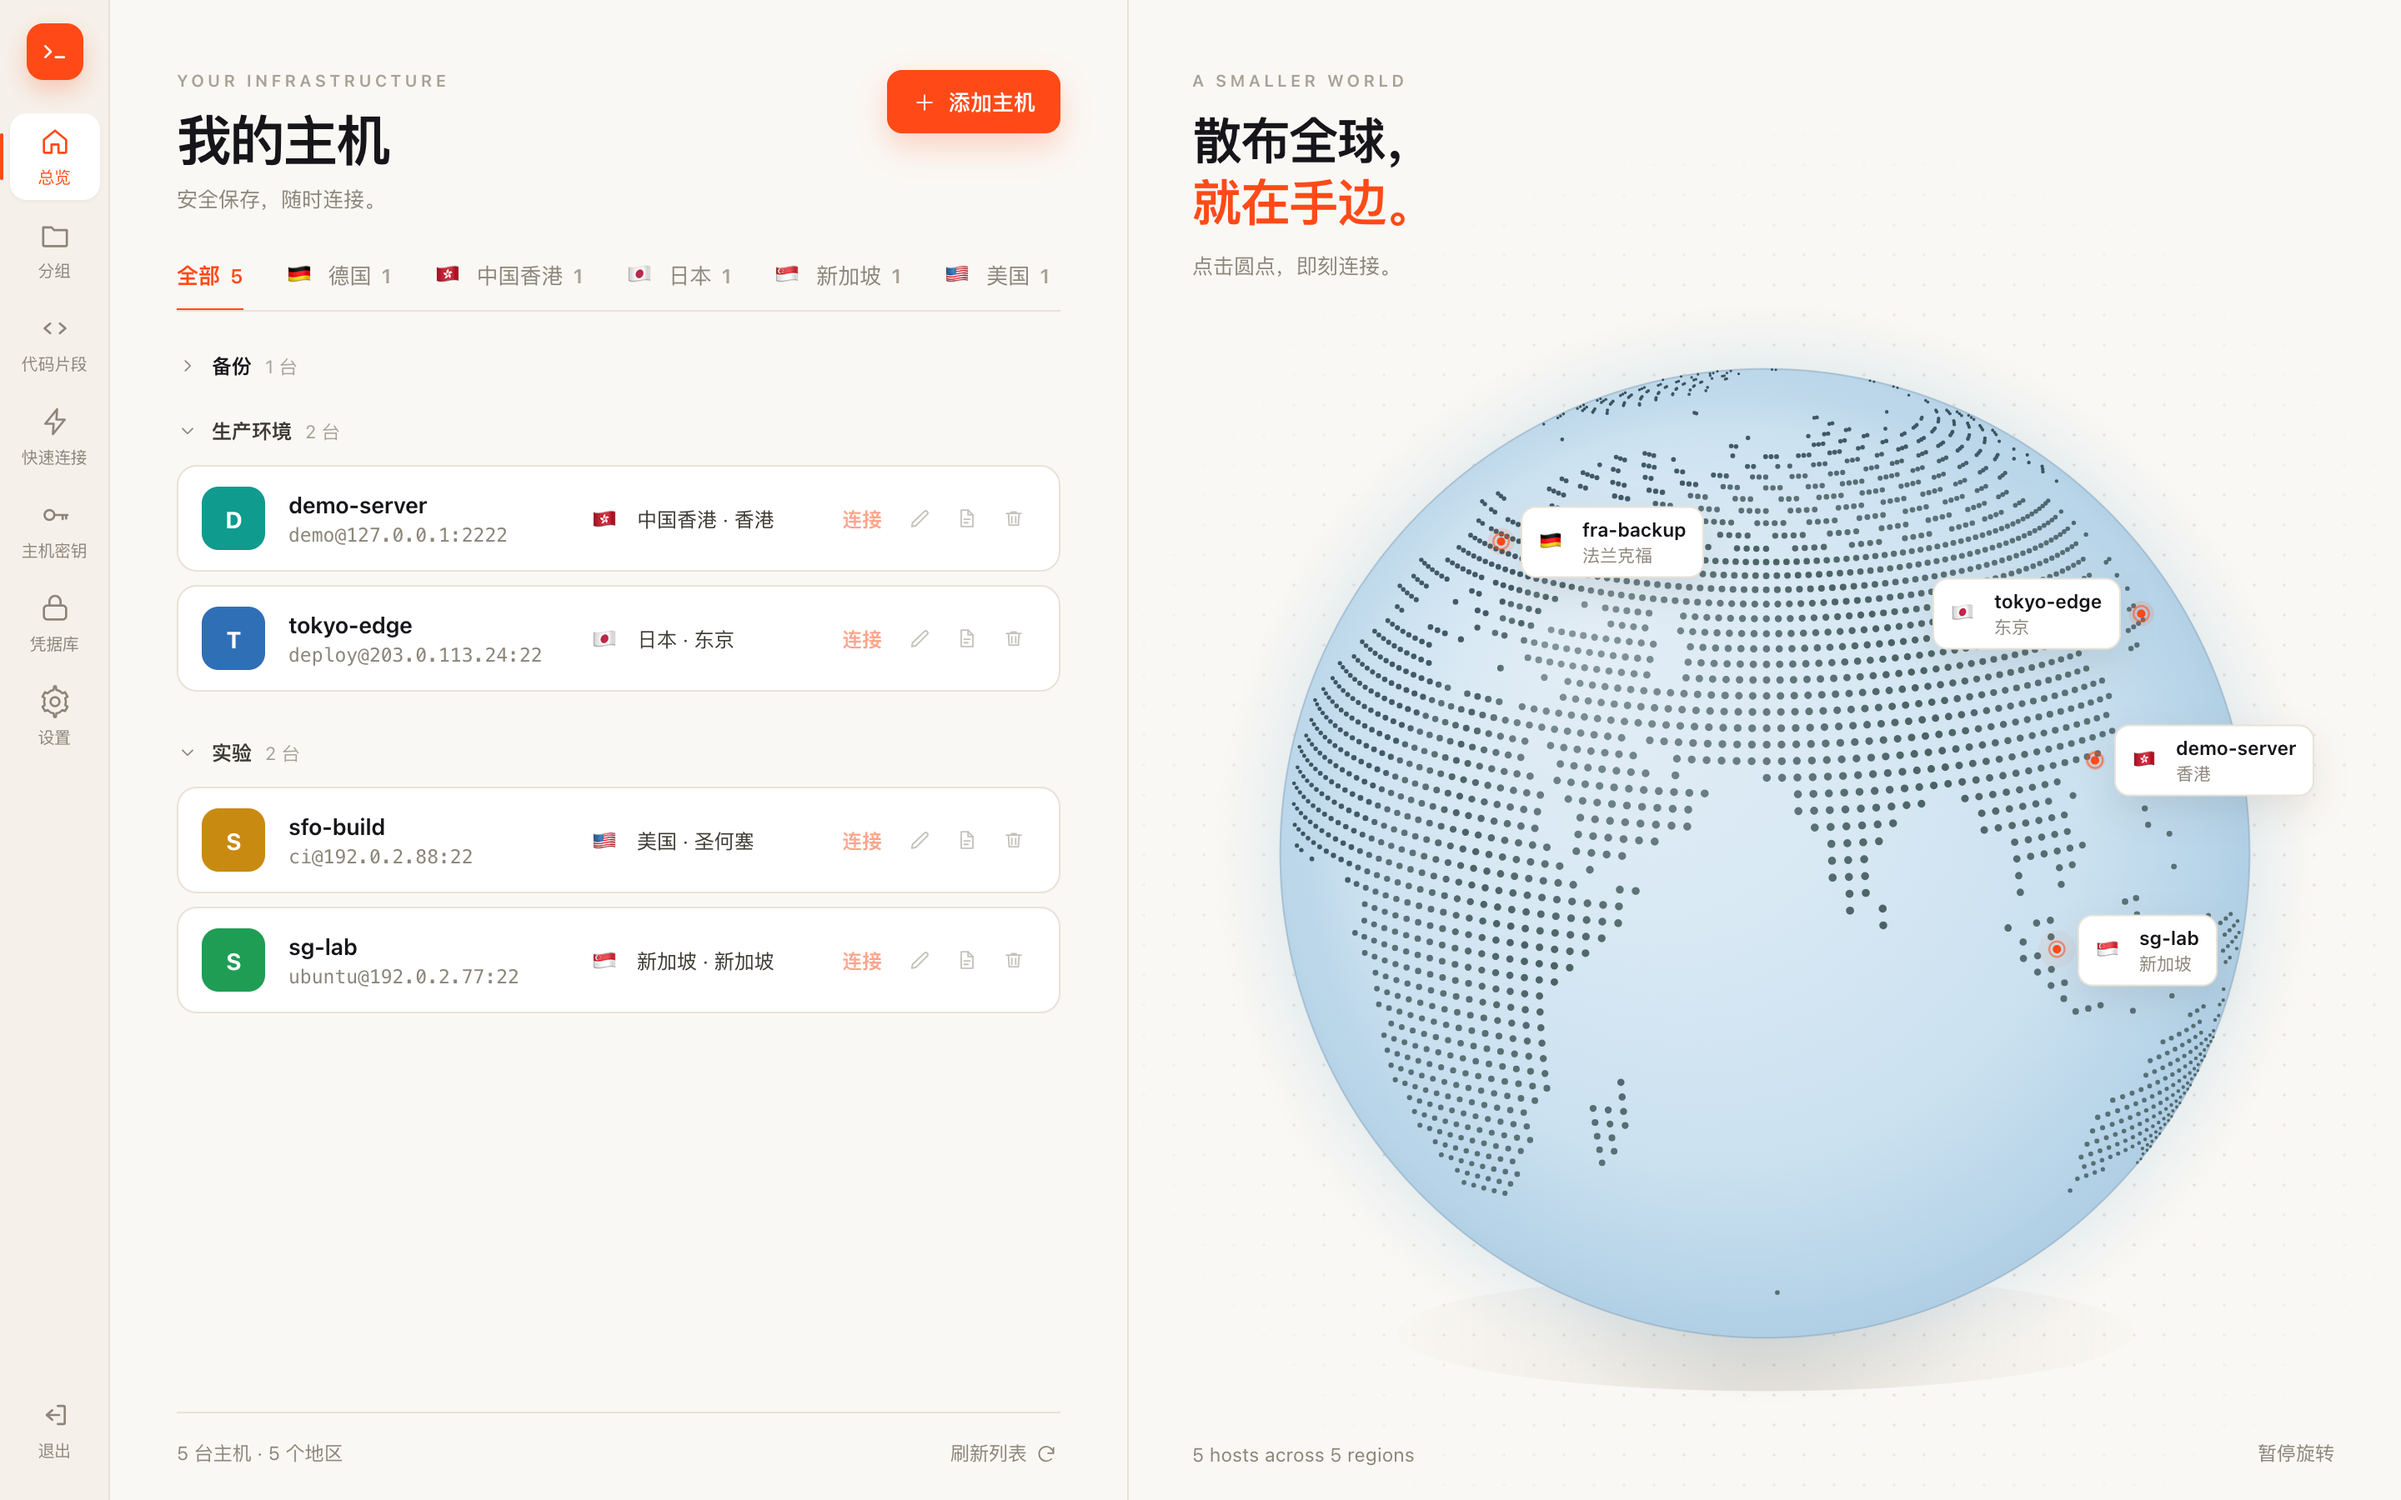
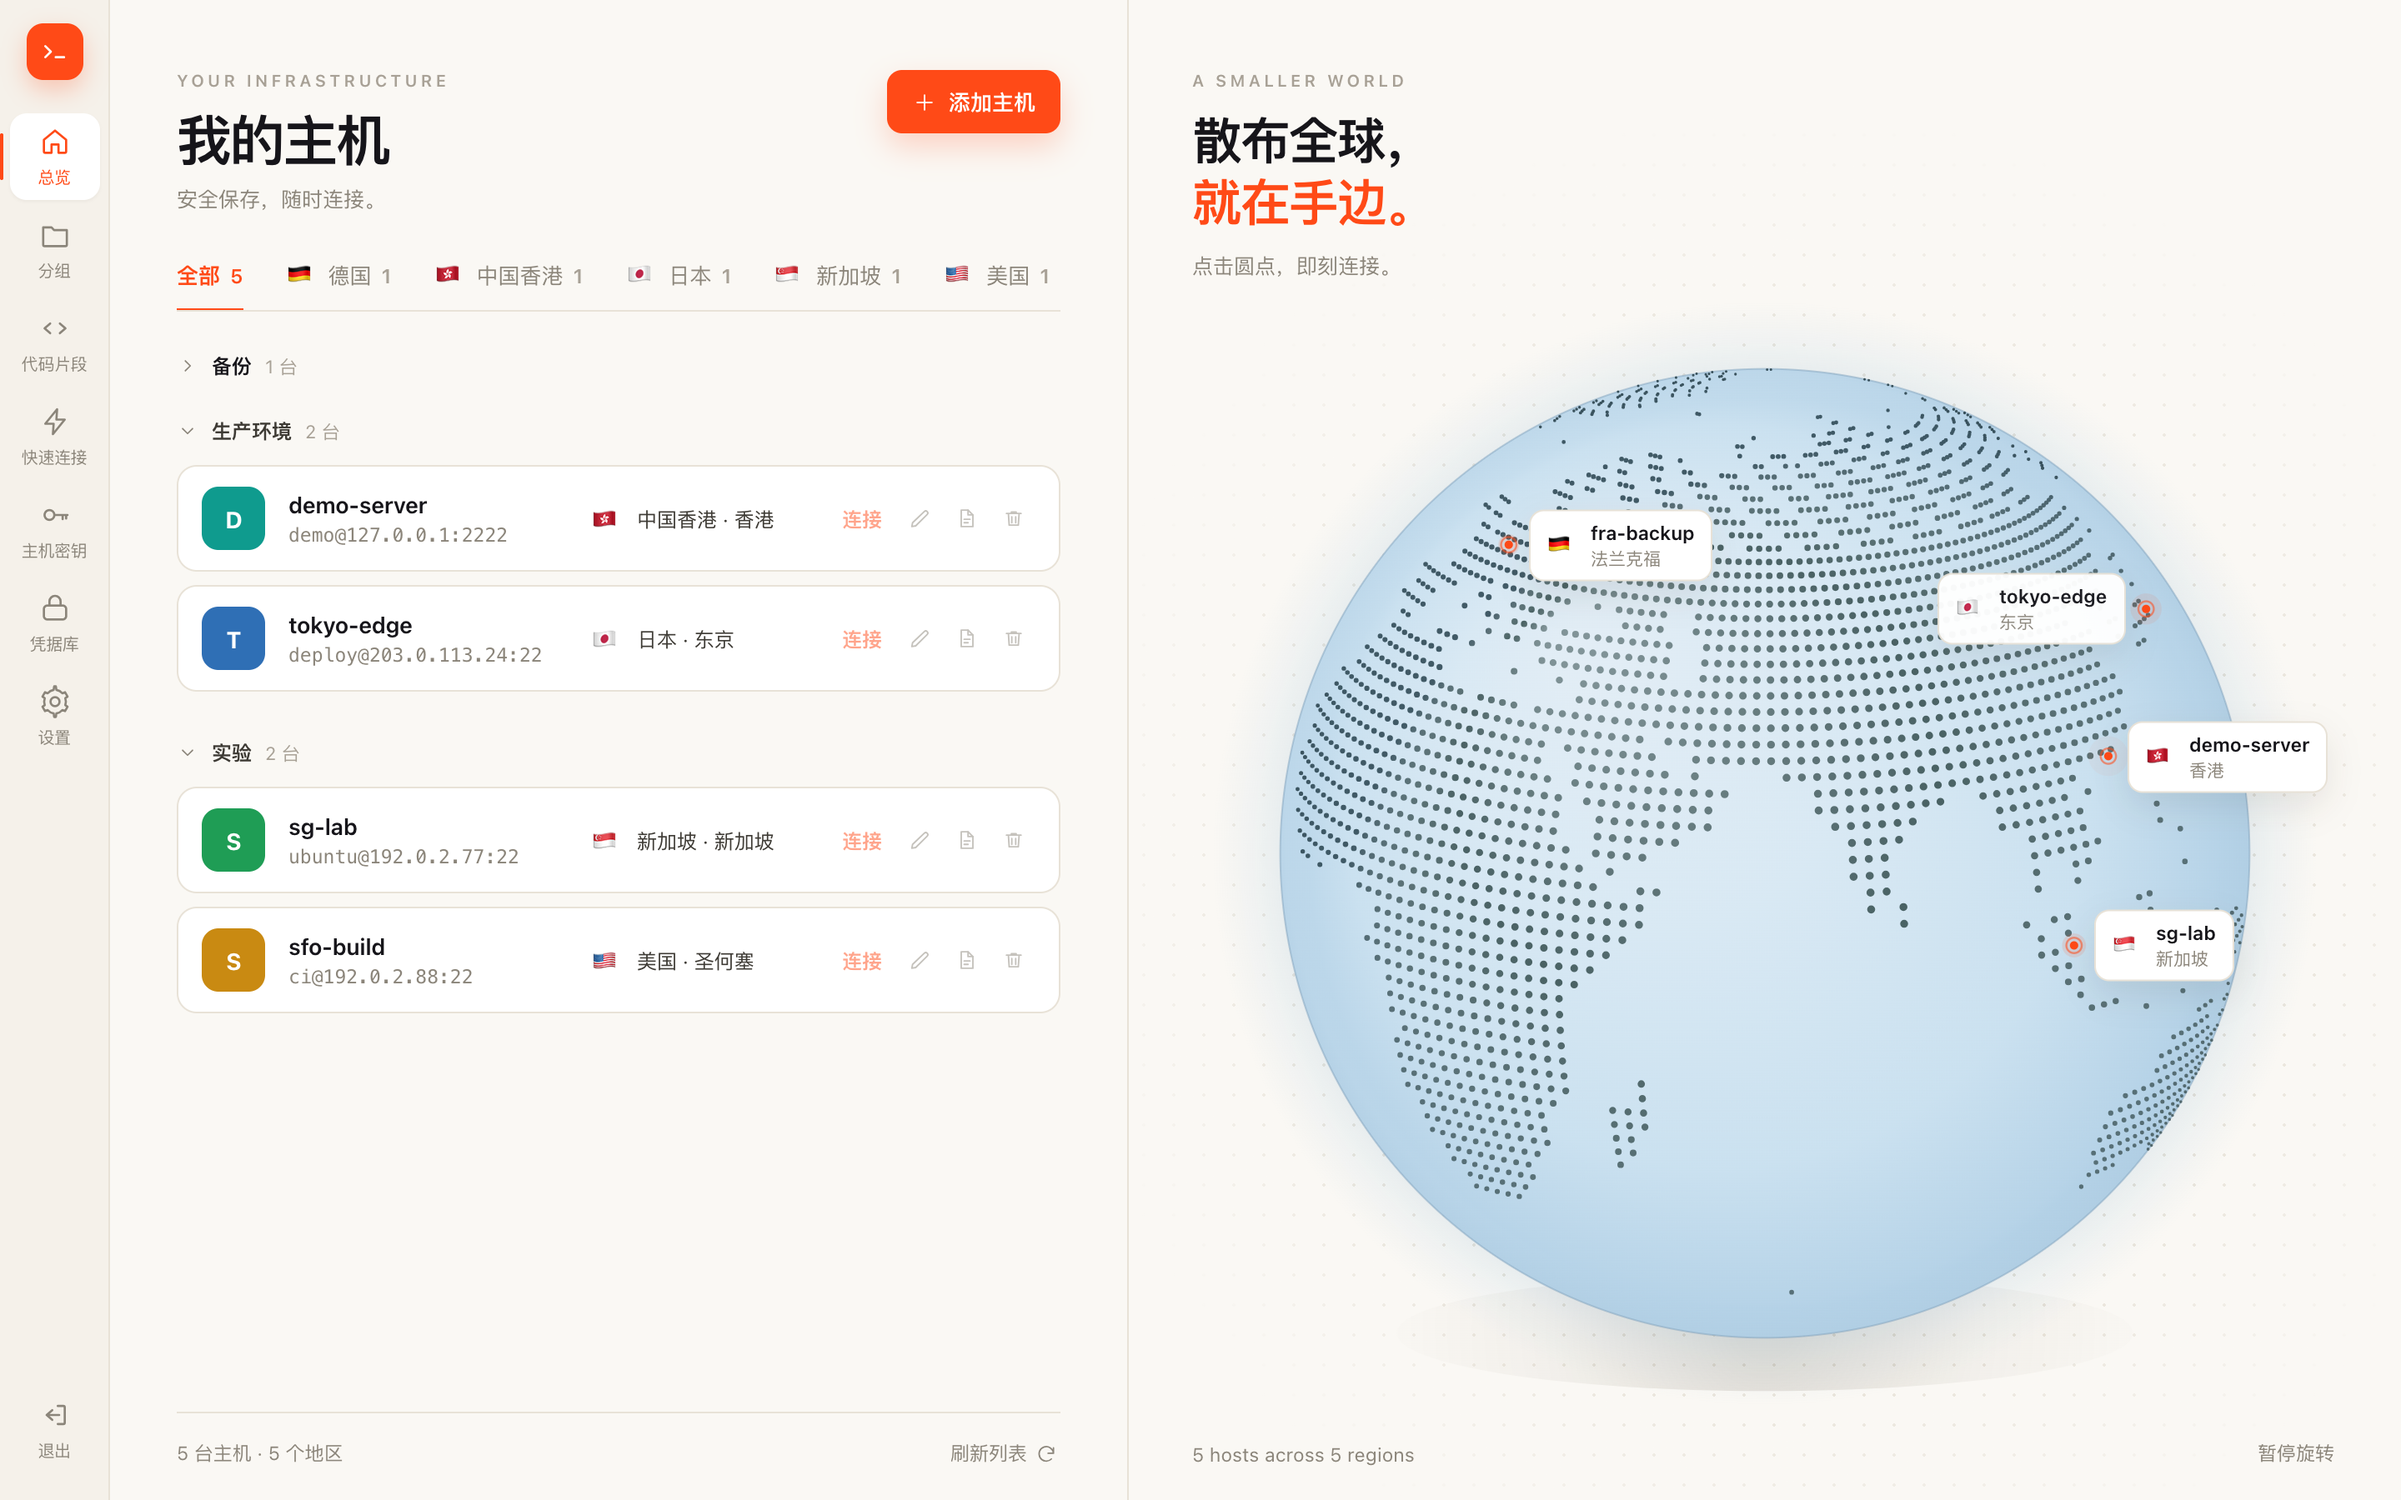
Add files via upload

diff --git a/src/worker.js b/src/worker.js
@@ -1,5 +1,6 @@
 // WebSSH — Cloudflare Worker entry (API + WebSocket bridge + static shell)
 import { Terminal } from './session.js';
+import { normalizeHost } from './hostaddr.js';
 import { connect } from 'cloudflare:sockets';
 import * as auth from './auth.js';
 import { getJSON, putJSON, del, list, getText } from './store.js';
@@ -57,7 +58,6 @@ class HttpError extends Error {
     }
 }
 
-const HOST_RE = /^[a-zA-Z0-9._\-:[\]]+$/;
 
 function cleanHostInput(body) {
     const name = String(body.name || '').trim();
@@ -66,13 +66,14 @@ function cleanHostInput(body) {
     const port = parseInt(body.port, 10) || 22;
     const authType = body.authType === 'key' ? 'key' : 'password';
     if (!host) throw new HttpError(400, '主机地址不能为空');
-    if (!HOST_RE.test(host)) throw new HttpError(400, '主机地址只能包含字母、数字、点、下划线、冒号和短横线');
+    const addr = normalizeHost(host);
+    if (!addr) throw new HttpError(400, '主机地址不合法（支持域名、IPv4、IPv6）');
     if (!username) throw new HttpError(400, '用户名不能为空');
     if (port < 1 || port > 65535) throw new HttpError(400, '端口范围应为 1-65535');
     if (name.length > 60) throw new HttpError(400, '名称过长');
     return {
-        name: name || `${username}@${host}`,
-        host,
+        name: name || `${username}@${addr}`,
+        host: addr,
         port,
         username,
         authType,
@@ -87,7 +88,7 @@ function cleanHostInput(body) {
 
 function publicHost(h) {
     const { secretEnc, keyEnc, passphraseEnc, ...rest } = h;
-    return { ...rest, hasSecret: Boolean(secretEnc || keyEnc || h.keyId || h.credId) };
+    return { ...rest, host: normalizeHost(h.host) || h.host, hasSecret: Boolean(secretEnc || keyEnc || h.keyId || h.credId) };
 }
 
 /* ---------------------------------------------------------------- groups */
@@ -431,7 +432,7 @@ async function handleApi(request, env, url) {
                 const rec = await getJSON(env, o.key);
                 if (rec) hosts.push(publicHost(rec));
             }
-            hosts.sort((a, b) => (a.name || '').localeCompare(b.name || ''));
+            hosts.sort((a, b) => (a.createdAt || 0) - (b.createdAt || 0) || (a.name || '').localeCompare(b.name || ''));
             return json({ hosts });
         }
         if (method === 'POST') {
@@ -592,11 +593,12 @@ async function handleWebSocket(request, env) {
         if (!/^[a-zA-Z0-9]+$/.test(hostId)) return json({ error: 'bad_id', message: '无效的主机 ID' }, 400);
         const rec = await getJSON(env, 'hosts/' + hostId);
         if (!rec) return json({ error: 'not_found', message: '主机不存在，可能已被删除' }, 404);
-        target = { host: rec.host, port: rec.port || 22 };
+        target = { host: normalizeHost(rec.host), port: rec.port || 22 };
     } else {
-        if (!qHost || !HOST_RE.test(qHost)) return json({ error: 'bad_host', message: '主机地址不合法' }, 400);
+        const addr = normalizeHost(qHost);
+        if (!addr) return json({ error: 'bad_host', message: '主机地址不合法' }, 400);
         if (qPort < 1 || qPort > 65535) return json({ error: 'bad_port', message: '端口不合法' }, 400);
-        target = { host: qHost, port: qPort };
+        target = { host: addr, port: qPort };
     }
 
     let socket;

diff --git a/public/js/app.js b/public/js/app.js
@@ -529,7 +529,7 @@ function openHostEditor(host) {
     });
 
     const userIn = el('input', { type: 'text', value: h.username || 'root', placeholder: 'root', autocomplete: 'off' });
-    const hostIn = el('input', { type: 'text', value: h.host || '', placeholder: '192.0.2.10 或 example.com', spellcheck: 'false' });
+    const hostIn = el('input', { type: 'text', name: 'host', value: h.host || '', placeholder: '192.0.2.10、example.com 或 2001:db8::1', spellcheck: 'false' });
     const portIn = el('input', { type: 'number', value: h.port || 22, min: '1', max: '65535' });
 
     const pwIn = el('input', { type: 'password', autocomplete: 'new-password', placeholder: h.hasSecret ? '已保存，留空则不修改' : '登录密码' });
@@ -1424,7 +1424,7 @@ function openSettings() {
 function openQuickConnect() {
     setNav('quick');
     const userIn = el('input', { type: 'text', value: 'root', autocomplete: 'off' });
-    const hostIn = el('input', { type: 'text', placeholder: 'example.com 或 192.0.2.10', spellcheck: 'false' });
+    const hostIn = el('input', { type: 'text', name: 'host', placeholder: 'example.com、192.0.2.10 或 2001:db8::1', spellcheck: 'false' });
     const portIn = el('input', { type: 'number', value: '22', min: '1', max: '65535' });
     const pwIn = el('input', { type: 'password', autocomplete: 'off', placeholder: '登录密码' });
     const keyIn = el('textarea', { placeholder: '-----BEGIN OPENSSH PRIVATE KEY-----', spellcheck: 'false' });

diff --git a/src/session.js b/src/session.js
@@ -4,6 +4,7 @@ import { SSHClient } from './ssh/client.js';
 import { SFTPClient, OPEN, b64encode, b64decode, isDirMode, isLinkMode, modeString } from './ssh/sftp.js';
 import { getJSON, putJSON, putText } from './store.js';
 import { decryptSecret, randomHex } from './auth.js';
+import { normalizeHost } from './hostaddr.js';
 
 const MAX_FILE = 64 * 1024 * 1024;
 const READ_CHUNK = 128 * 1024;
@@ -11,7 +12,7 @@ const WRITE_CHUNK = 64 * 1024;
 const EDIT_MAX = 512 * 1024;
 
 export function knownKey(host, port) {
-    return 'known/' + String(host).toLowerCase().replace(/[^a-z0-9.\-:]/g, '_') + '_' + port;
+    return 'known/' + String(host).toLowerCase().replace(/[^a-z0-9.\-:\[\]]/g, '_') + '_' + port;
 }
 
 const enc = new TextEncoder();
@@ -208,9 +209,9 @@ export class Terminal {
             }
         }
 
-        if (!host) throw new Error('缺少主机地址');
+        host = normalizeHost(host);
+        if (!host) throw new Error('主机地址不合法（支持域名、IPv4、IPv6）');
         if (!username) throw new Error('缺少用户名');
-        if (!/^[a-zA-Z0-9._\-:\[\]]+$/.test(host)) throw new Error('主机地址包含非法字符');
         if (port < 1 || port > 65535) throw new Error('端口不合法');
 
         this.meta = { host, port, user: username };

diff --git a/src/hostaddr.js b/src/hostaddr.js
@@ -1,0 +1,23 @@
+// Cloudflare's connect() requires IPv6 literals in brackets; the UI and the
+// stored records keep that form too so displays read as user@[addr]:port.
+
+function isIPv6(s) {
+    if (!s.includes(':') || !/^[0-9a-fA-F:.]+$/.test(s)) return false;
+    try {
+        new URL('http://[' + s + ']/');
+        return true;
+    } catch (_) {
+        return false;
+    }
+}
+
+export function normalizeHost(input) {
+    const raw = String(input == null ? '' : input).trim();
+    if (!raw) return '';
+    if (raw.startsWith('[')) {
+        const inner = raw.endsWith(']') ? raw.slice(1, -1) : '';
+        return inner && isIPv6(inner) ? '[' + inner.toLowerCase() + ']' : '';
+    }
+    if (raw.includes(':')) return isIPv6(raw) ? '[' + raw.toLowerCase() + ']' : '';
+    return /^[a-zA-Z0-9._-]+$/.test(raw) ? raw : '';
+}

diff --git a/README.md b/README.md
@@ -13,7 +13,7 @@
 - 首次打开让你设置管理员账号密码，之后用它登录
 - 浅色仪表盘：分组可收起 / 展开（状态记在本地）、独立分组面板（改名自动同步主机）、地区筛选、可拖拽的点阵地球（每台主机一个可点的城市标签）
 - 深色终端页：多标签、实时监控（CPU / 内存 / 网络 / RTT / 负载）、底部特殊按键条、代码片段一键发送、文件管理
-- 主机列表（密码 / 私钥两种认证），凭据 AES-GCM 加密后存在你自己的 R2 里
+- 主机列表（密码 / 私钥两种认证），支持 IPv4、IPv6 和域名，凭据 AES-GCM 加密后存在你自己的 R2 里
 - 凭据库：常用账号（用户名 + 密码）与私钥都能命名保存；账号和私钥显示使用数量，主机直接引用，不用重复填写
 - 文件管理（SFTP）：浏览、上传、下载、新建文件夹、重命名、删除、在线编辑文本文件
 - 主机密钥 TOFU 校验：首次连接弹指纹确认，之后指纹变化直接拒绝（防中间人）
@@ -73,7 +73,7 @@ node tests/e2e.mjs --headful   # 想看着它点的话
 
 ## 用起来
 
-- **添加主机**：名称、分组、主机、端口、用户名，选密码或私钥，再选地区和城市。地区和城市决定它在筛选标签和地球上的位置。
+- **添加主机**：名称、分组、主机、端口、用户名，选密码或私钥，再选地区和城市。地区和城市决定它在筛选标签和地球上的位置。主机地址支持域名、IPv4 和 IPv6，IPv6 直接填 `2001:db8::1` 或 `[2001:db8::1]` 都行，列表里统一显示成 `user@[addr]:port`；同一分组内按添加先后排列，新加的在下面。
 - **分组**：左侧「分组」面板里新建 / 重命名 / 删除。改名会同步所有主机，删除后主机回到「未分组」；主机编辑框的下拉里也能直接「＋ 新建分组…」。仪表盘上点分组标题即可收起或展开，状态会记住。
 - **凭据库**：左侧「凭据库」分两部分——**常用账号**保存用户名 + 密码，**私钥**自动识别算法并计算 `SHA256:` 指纹。主机认证直接选条目即可复用，用户名和密码都不用再填；被主机引用的条目不会被删除。
 - **文件管理**：进入终端后点顶部「文件」，走 SFTP 子系统浏览远程目录，支持上传、下载、新建文件夹、重命名、删除和在线编辑文本文件。单个文件上限 64 MB，在线编辑读取 512 KB 以内的文本。
